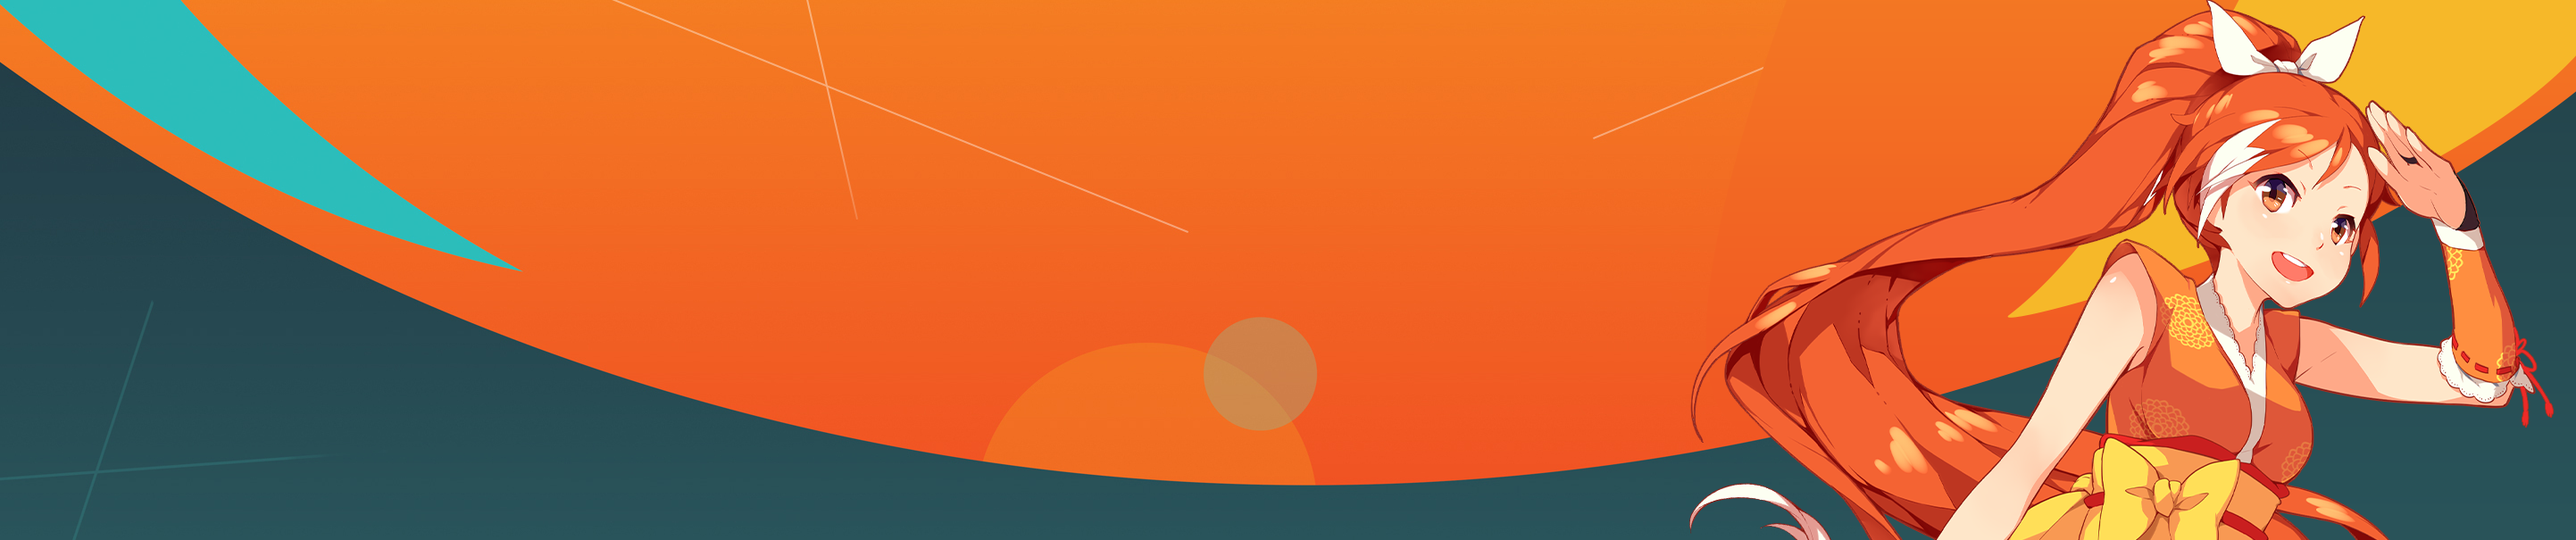
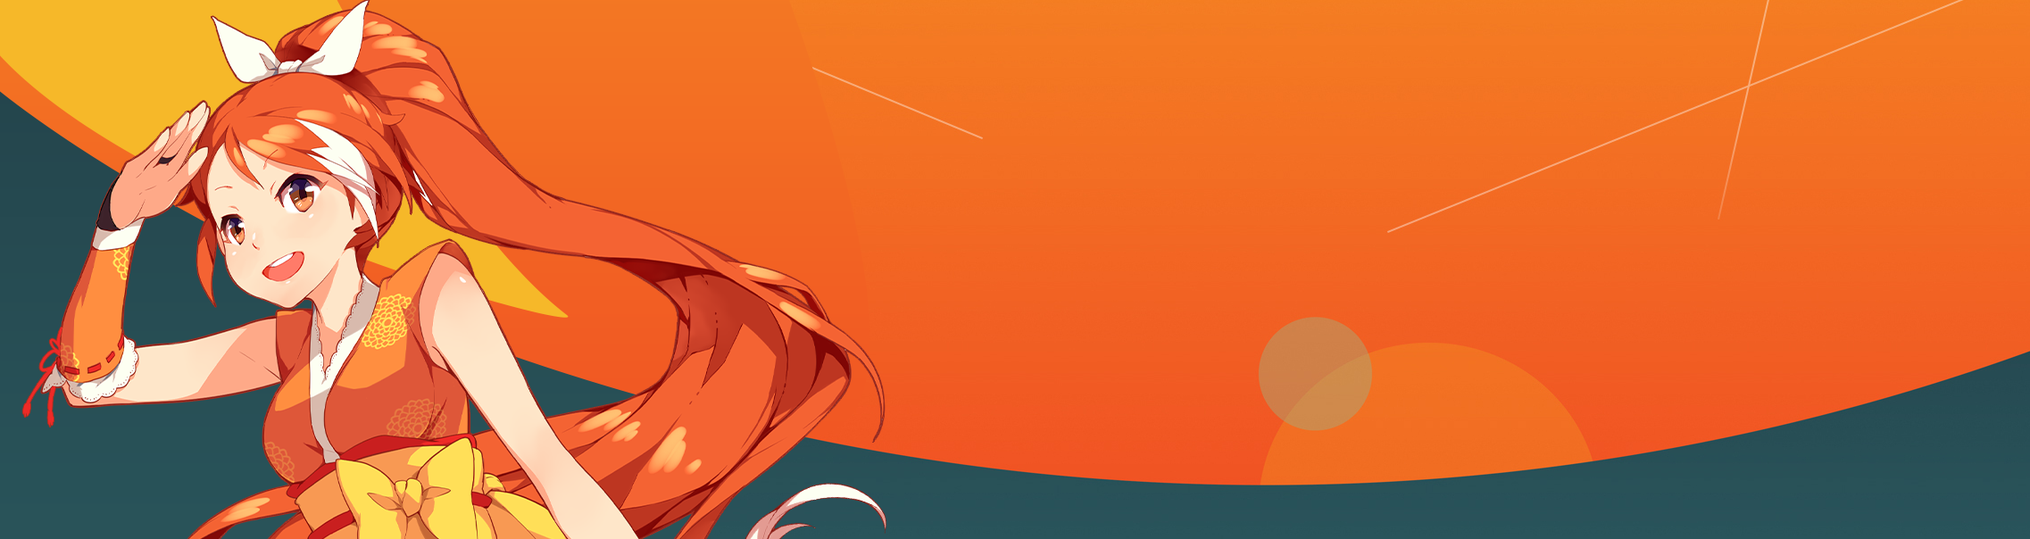
edited images and pseudo routes, attempting a test connection with mongo uri via hw instructions

diff --git a/server.js b/server.js
@@ -30,6 +30,11 @@ app.use(express.static("public"));
 mongoose.connect("mongodb://localhost/newscraper");
 var db = mongoose.connection;
 
+// var MONGODB_URI = process.env.MONGODB_URI || "mongodb://localhost/newscraper";
+
+// var db = mongoose.connect(MONGODB_URI);
+
+
 db.on("error", console.error.bind(console, "connection error:"));
 db.once("open", function() {
     console.log("Connected to Mongoose!");
@@ -37,6 +42,58 @@ db.once("open", function() {
 
 // Routes
 
+app.get("/all", function(req, res) {
+  db.scrapedData.find({}, function(error, found) {
+    if (error) {
+      console.log(error);
+    }
+    else {
+      res.json(found);
+    }
+  });
+});
+
+
+app.get("/scrape", function(req,res) {
+    axios.get("https://www.crunchyroll.com/news").then(function(response) {
+  
+      // Load the HTML into cheerio and save it to a variable
+      // '$' becomes a shorthand for cheerio's selector commands, much like jQuery's '$'
+      var $ = cheerio.load(response.data);
+  
+      // An empty array to save the data that we'll scrape
+      // var results = [];
+  
+      // Select each element in the HTML body from which you want information.
+      // NOTE: Cheerio selectors function similarly to jQuery's selectors,
+      // but be sure to visit the package's npm page to see how it works
+      $("li.news-item").each(function(i, element) {
+  
+        // var title = $(element).children().text();
+        var title = $(element).find("h2").text();
+        var link = $(element).find("a").attr("href");
+  
+        // Save these results in an object that we'll push into the results array we defined earlier
+        // results.push({
+        db.scrapedData.insert({
+          title: title,
+          link: link
+        });
+      });
+      
+      // Log the results once you've looped through each of the elements found with cheerio
+      // console.log(results);
+      // push results into MongoDB database scrapedData
+      // db.scrapedData.insertMany(
+      //   [ results ]
+      // );
+  
+    });
+  
+  
+  
+});
+  
 
 // Start the server
 app.listen(PORT, function() {

diff --git a/public/index.html b/public/index.html
@@ -9,7 +9,7 @@
   <meta name="viewport" content="width=device-width, initial-scale=1">
   <link rel="stylesheet" href="https://cdnjs.cloudflare.com/ajax/libs/bootswatch/4.0.0/materia/bootstrap.min.css"/>
   <link href="https://fonts.googleapis.com/css?family=Cormorant+SC" rel="stylesheet">
-  <link rel="stylesheet" href="/assets/css/style.css">
+  <link rel="stylesheet" href="assets/css/style.css">
 </head>
 
 <body>
@@ -51,7 +51,7 @@
   </div>
 </div>
 <div class="container-fluid article-container">
- 
+<!--  
   <div class='alert alert-warning text-center'>
     <h4>Uh Oh. Looks like we don't have any new articles.</h4>
   </div>
@@ -67,7 +67,7 @@
         <a href="/saved">Go to Saved Articles</a>
       </h4>
     </div>
-  </div>
+  </div> -->
 </div>
 
 <footer class="footer">
@@ -79,7 +79,7 @@
 <script src="https://cdnjs.cloudflare.com/ajax/libs/jquery/3.2.1/jquery.min.js"></script>
 <script src="https://maxcdn.bootstrapcdn.com/bootstrap/3.3.7/js/bootstrap.min.js"></script>
 <script src="https://cdnjs.cloudflare.com/ajax/libs/bootbox.js/4.4.0/bootbox.min.js"></script>
-<script src="/assets/javascript/app.js"></script>
+<script src="assets/javascript/app.js"></script>
 
 </body>
 
